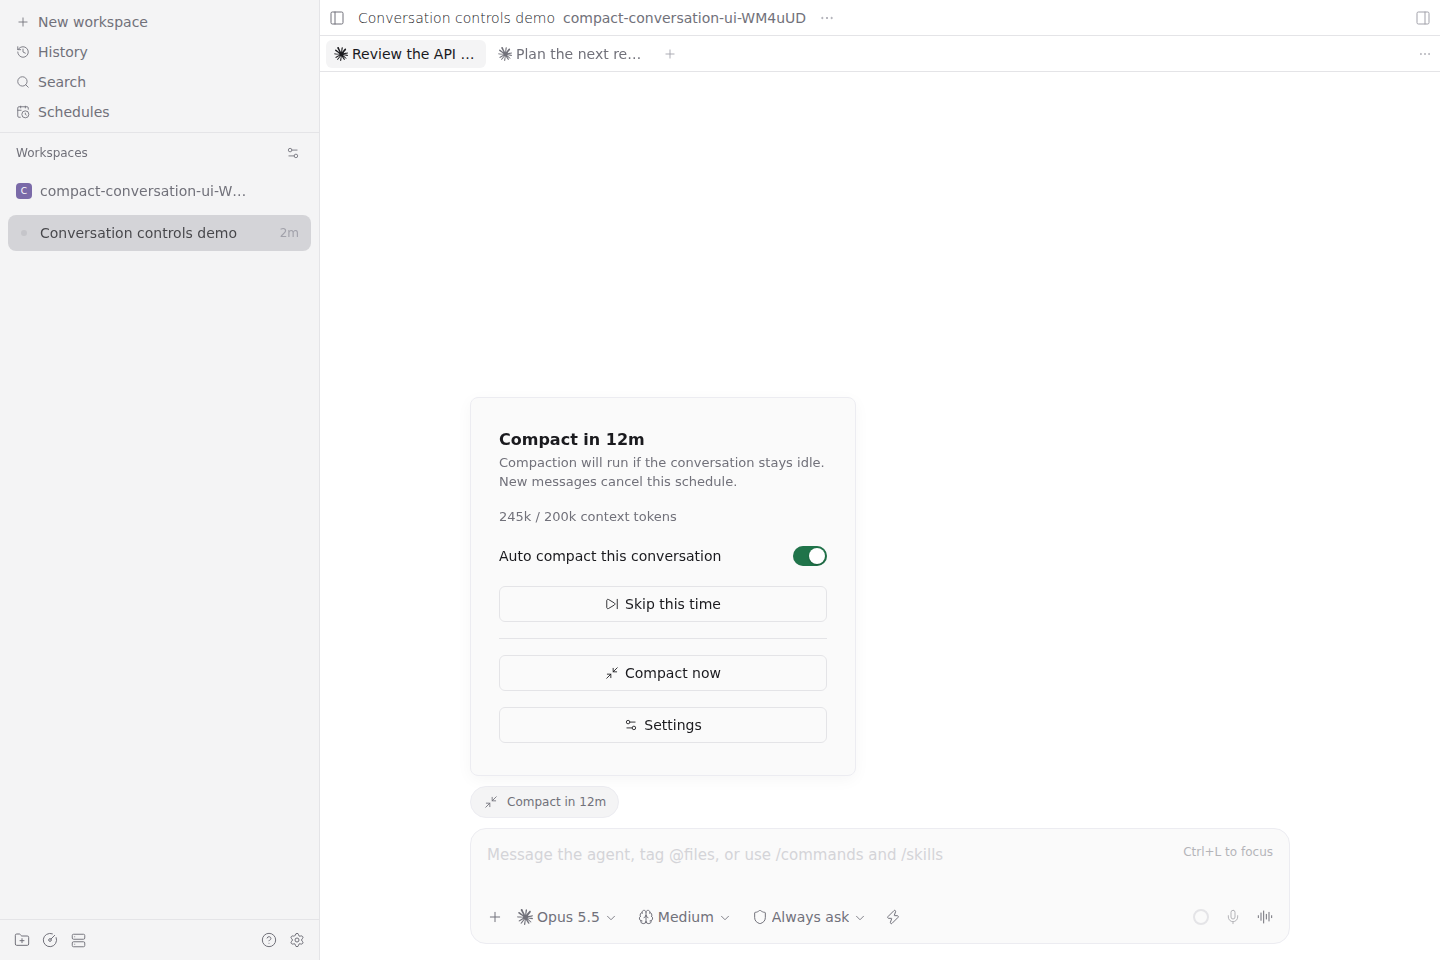
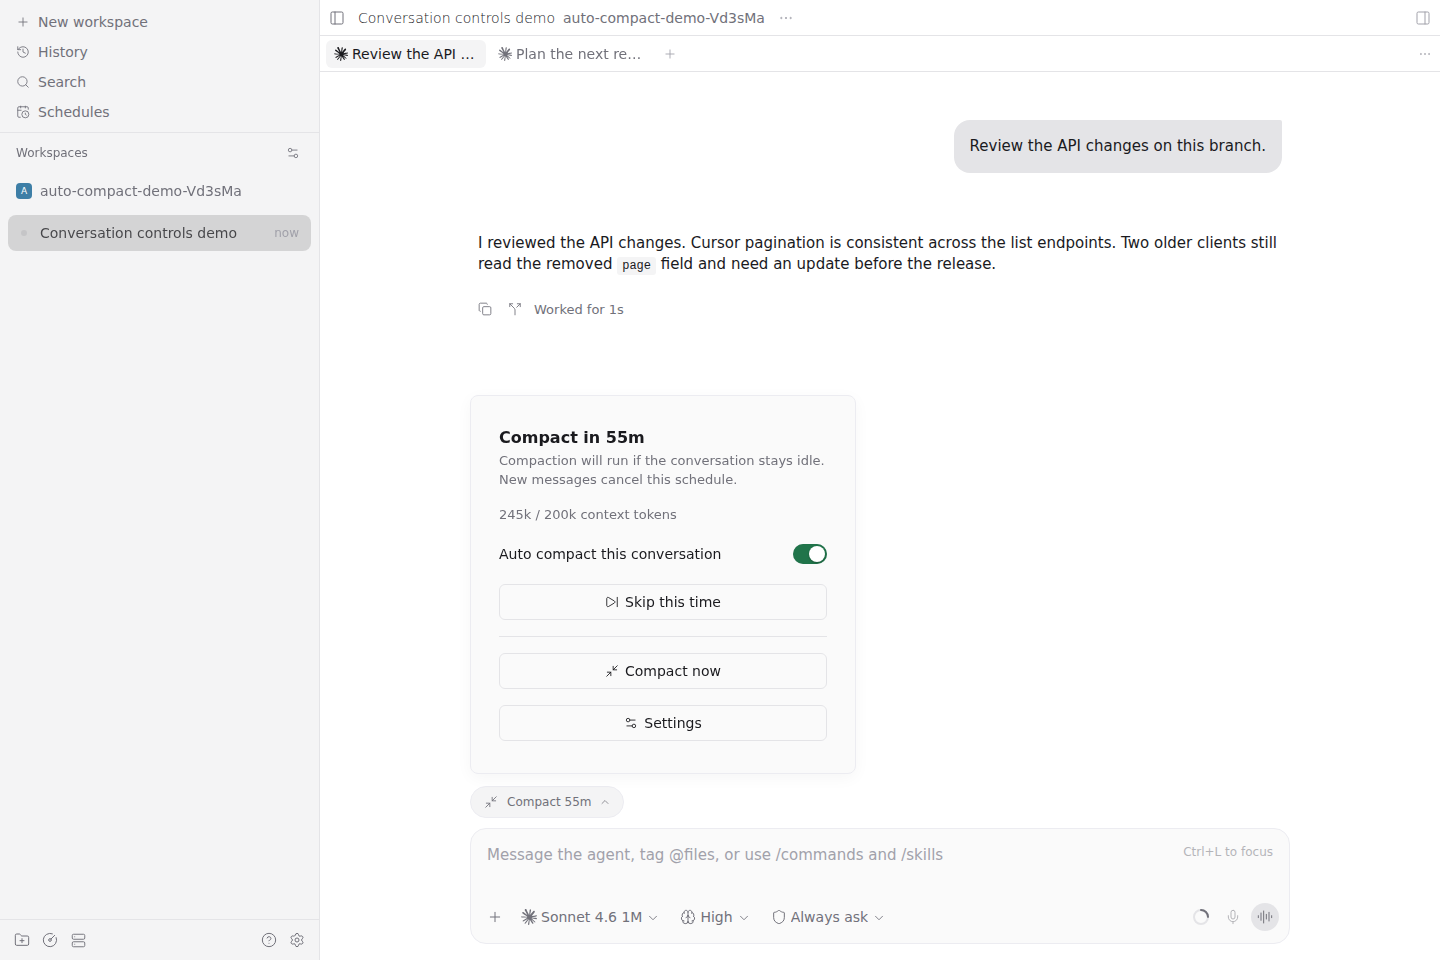
Refresh screenshots on Paseo 0.16
Recapture the conversation controls, the settings page and the mobile
Undo skip sheet in the stock Paseo 0.16.0 web app, where settings now live
on the plugin's page under Settings -> Plugins and the pill shows the
shorter countdown. Record that the install E2E now starts from v1.1.1.

diff --git a/docs/testing.md b/docs/testing.md
@@ -269,7 +269,7 @@ The development SDK remains 0.12.0. The 0.16 SDK types make `metadata` and `back
 
 The native suite has **20 scenarios**. All 20 passed on stock Paseo 0.16.0 and on 0.12.0. The background-shell scenario starts a 20-second background shell, compacts explicitly while it runs, waits for the native completion notification, and checks the observer ledger, the new reservation and the absence of a second `/compact`. On 0.16.0 the interrupted-compaction suite passed **2/2** (graceful and forced), the lifecycle `reload`, `automatic` and `cleanup` scenarios passed, and the Chromium web UI checks passed **4/4**. Like 0.14 and 0.15, Paseo 0.16 defers reopening a session after a plugin reload, and the plugin blocks compaction until a message resumes it.
 
-`npm run test:e2e -- --paseo 0.16.0` passed **26/26**: v1.0.2 installed from GitHub ran on 0.16.0, the update to this branch, the native scenarios against that install, rollback and update again all passed. `npm run test:e2e:desktop -- --paseo 0.16.0` passed **9/9** on the 0.16.0 Linux desktop app (Electron 44.2.0, Node 24.20.0) under Xvfb. That app opens a first-run setup dialog over a fresh profile and shows no UI from a plugin installed through the CLI until its window reloads, so the desktop check skips the setup and reloads the window after installing. The E2E checks still start from v1.0.2; an upgrade starting from v1.1.1 is not covered.
+`npm run test:e2e -- --paseo 0.16.0` passed **26/26**: v1.0.2 installed from GitHub ran on 0.16.0, the update to this branch, the native scenarios against that install, rollback and update again all passed. `npm run test:e2e:desktop -- --paseo 0.16.0` passed **9/9** on the 0.16.0 Linux desktop app (Electron 44.2.0, Node 24.20.0) under Xvfb. That app opens a first-run setup dialog over a fresh profile and shows no UI from a plugin installed through the CLI until its window reloads, so the desktop check skips the setup and reloads the window after installing. The E2E check now starts from the latest release by default: from v1.1.1 it passed **26/26** on Paseo 0.16.0 and on 0.12.0, keeping the operations v1.1.1 recorded through update, rollback and update again; from v1.0.2 it still passed 26/26 on 0.16.0.
 
 Paseo 0.16.0 is part of the default `matrix.mjs` matrix and CI (`npm run test:simulation:0.16`, alias `@getpaseo/cli-0-16-stable`). `npm run test:simulation:0.16-beta` still runs 0.16.0-beta.1 locally.
 

diff --git a/assets/README.md b/assets/README.md
@@ -1,11 +1,11 @@
 # Interface screenshots
 
-These images show the real Auto Compact client in the stock **Paseo 0.12.0 web app**, captured on **2026-10-22** in the light theme. The declared minimum Paseo support is 0.12; these captures establish the tested version only.
+These images show the real Auto Compact client in the stock **Paseo 0.16.0 web app**, captured on **2026-11-17** in the light theme. The declared minimum Paseo support is 0.12; these captures establish the tested version only.
 
 | File | Size | Content |
 | --- | --- | --- |
-| [conversations.png](conversations.png) | 1440 × 960 | Composer countdown and open controls: context usage, conversation switch, skip, manual compact and Settings. |
+| [conversations.png](conversations.png) | 1440 × 960 | Composer pill countdown (**Compact 55m**) and open controls: context usage, conversation switch, skip, manual compact and Settings. |
 | [undo-skip.png](undo-skip.png) | 390 × 1000 | Mobile browser sheet after skipping, showing **Compact on**, disabled **Skip this time**, and **Undo skip**. |
-| [settings.png](settings.png) | 1440 × 960 | Host settings with the default 200k threshold, 55-minute delay and Claude provider switches. |
+| [settings.png](settings.png) | 1440 × 960 | The plugin's page under Settings → Plugins with the default 200k threshold, 55-minute delay and the Claude provider switch. |
 
-Agents and workspace are disposable test records. Token counts, schedules and action results are seeded sample RPC data. These are not real user conversations or evidence of billing, cache retention or successful model compaction. The plugin client and host settings UI are real. Browser layouts at 390px and 375px and the dark theme were also checked; native iOS and Android apps remain unverified.
+Agents and workspace are disposable test records in an isolated Paseo daemon. The plugin was installed from GitHub and ran against native Claude Code; only the model replies are synthetic, so the conversation text, the 245k context usage and the reservation are sample data, not real user conversations or evidence of billing, cache retention or successful model compaction. The plugin client and host settings UI are real. Native iOS and Android apps remain unverified.
